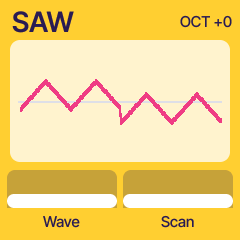
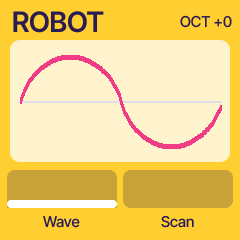
Drop the UI's DSP stubs now that the engine has landed
The UI branch carried placeholder WAVE_NAMES and wave_peek until the
wavetable engine merged. Remove them so the pages draw the real
tables, refresh the WAVE screenshot, and fix the stale unity-build
comment that still called ui.c a placeholder.

Prompt: Once you have merged 1 and 10, just keep going and pushing.
Dont await for my instructions. Lets go

Changed region(s): [[0.0583, 0.2042, 0.9333, 0.6417], [0.0292, 0.7875, 0.9917, 0.875], [0.0292, 0.0292, 0.4375, 0.1458]]

diff --git a/firmware/src/ui.c b/firmware/src/ui.c
@@ -5,16 +5,6 @@
  * One bright colour per page, a big picture in the middle. No framebuffer: the screen is drawn in two 240 x 120
  * strips (cv_oy shifts screen coordinates into the strip) and only when something it shows has changed. */
 
-/* stub until DSP branch lands */
-static const char *const WAVE_NAMES[8] = {"SINE", "TRI", "SAW", "SQUARE", "PULSE", "SYNC", "SUB", "NOISE"};
-static int16_t wave_peek(int table, int scan, int i)
-{
-    int32_t ph = (i * 2) & 127, t = ph < 64 ? ph * 512 - 16384 : 49152 - ph * 512;   /* a triangle, squarer with scan */
-    (void)table;
-    return (int16_t)(t * (128 - scan) / 128 + (i < 128 ? 12000 : -12000) * scan / 128);
-}
-/* end of stub */
-
 #define INK RGB(40, 28, 80)
 #define WHITE RGB(255, 255, 255)
 #define PX 10                       /* the picture's panel */

diff --git a/firmware/src/felucca.c b/firmware/src/felucca.c
@@ -72,7 +72,7 @@
 
 /* -------------------------------------------------------------- UI --- */
 #include "panel.c"
-#include "ui.c"                  /* the placeholder screen, OCT-/OCT+ */
+#include "ui.c"                  /* the kids UI pages, OCT-/OCT+ */
 #include "icons.c"               /* the icon atlas */
 
 /* ---------------------------------------------- storage, update --- */
